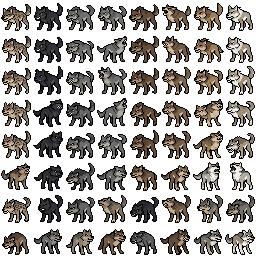
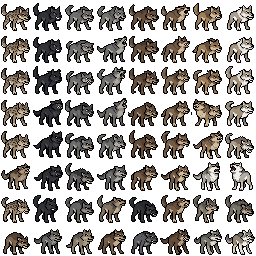
Vargarna tittar åt rätt håll (alla rutor vända likadant)
Claude-Session: https://claude.ai/code/session_018ajE8D2FggpF2yZQRYB5KY

diff --git a/sw.js b/sw.js
@@ -1,7 +1,7 @@
 // Fantasyvärlden – service worker.
 // Egna filer: nätet först (så uppdateringar syns direkt), cachen som reserv när man är offline.
 // GitHub-API:t (sparfilen) cachas aldrig.
-const CACHE = "fantasyvarlden-v38";
+const CACHE = "fantasyvarlden-v39";
 const SHELL = ["./","./index.html","./spel.js","./regler.js","./varld.js","./hjaltar.js","./figurer.js","./fiendebilder.js","./bakgrund.js","./grafik.js","./manifest.json","./icons/icon-180.png","./icons/icon-192.png","./icons/icon-512.png"];
 self.addEventListener("install", e => { e.waitUntil(caches.open(CACHE).then(c => c.addAll(SHELL)).then(() => self.skipWaiting())); });
 self.addEventListener("activate", e => { e.waitUntil(caches.keys().then(k => Promise.all(k.filter(x => x !== CACHE).map(x => caches.delete(x)))).then(() => self.clients.claim())); });
